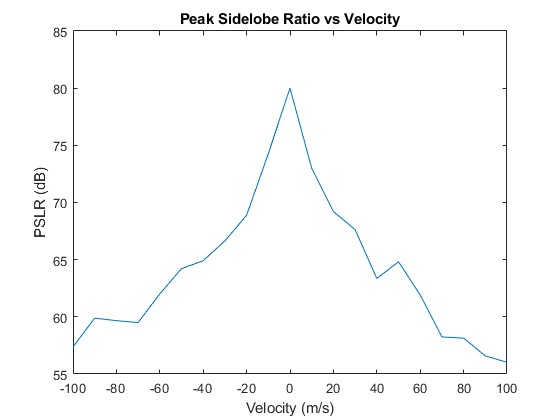
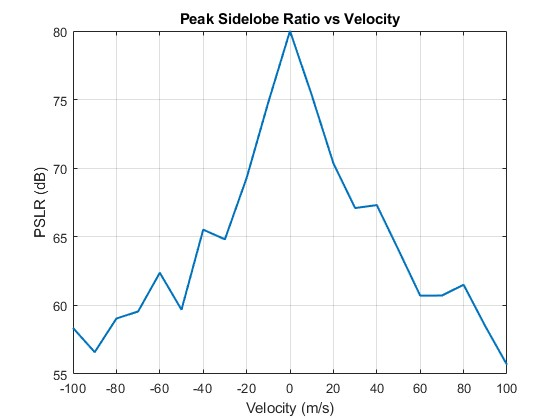
added 2 cite and plots line width

diff --git a/latex/project_report.tex b/latex/project_report.tex
@@ -370,7 +370,7 @@ In this section, we evaluate the performance of an FMCW radar written in MATLAB 
 	 	\begin{figure}[H]
 	    		\centering
 	    		\fbox{\includegraphics[width=0.9\linewidth]{OFDM Block diagram}}
-	    		\caption{OFDM block diagram}
+	    		\caption{OFDM block diagram.\cite {10.1007/978-981-16-2406-3_61}}
 	    		\label{fig::ofdm_block_diagram}
 		\end{figure}
 		
@@ -379,7 +379,7 @@ In this section, we evaluate the performance of an FMCW radar written in MATLAB 
 		\begin{figure}[H]
 	    		\centering
 	    		\fbox{\includegraphics[width=0.9\linewidth]{OFDM subcarriers}}
-	    		\caption{OFDM subcarriers}
+	    		\caption{OFDM subcarriers. \cite {inproceedings}}
 	    		\label{fig::ofdm_subcarriers}
 		\end{figure}
 		
@@ -786,7 +786,7 @@ The RDM results for the given parameters, shown in the graph below, demonstrate 
 \caption{OFDM/Radar RDM Plot}
 \end{figure} 
 
-The parameters for the optimized OFDM yield distinct power spectral density and BER vs. SNR results. As anticipated, the total power density decreases by 20 dB, a direct consequence of the increased number of data carriers, which has been multiplied by a factor of 16 compared to OFDM stand-alone.
+The parameters for the optimized OFDM yield distinct power spectral density and BER vs. SNR results. As anticipated, the total power density decreases by 20 dB, a direct consequence of the increased number of data carriers, which has been multiplied by a factor of 16 compared to OFDM stand-alone. The measured average signal power for both optimized OFDM/Radar and OFDM stand-alone are in the same range (-13 dB).
 
 \begin{figure}[H]
 \centering
@@ -794,7 +794,7 @@ The parameters for the optimized OFDM yield distinct power spectral density and 
 \caption{OFDM/Radar Power Spectral Density}
 \end{figure} 
 
-The final parameter compared for optimized OFDM signal integrity against stand-alone OFDM is the BER vs. SNR. The plot below shows that the BER results align with the expected values and are within the same range as those of stand-alone OFDM.
+The final parameter compared for optimized OFDM signal integrity against stand-alone OFDM is the BER vs. SNR. The plot below shows that the BER results align with the expected values and are within the same range as those of OFDM  stand-alone.
 
 \begin{figure}[H]
 \centering

diff --git a/code/runOfdmRadar.m b/code/runOfdmRadar.m
@@ -30,14 +30,17 @@ end
 
 figure(1)
 clf;
-plot(targetVelocity, PSLR_dB);
+plot(targetVelocity, PSLR_dB, LineWidth=1.5);
 
 
  % Label Plot
             title('Peak Sidelobe Ratio vs Velocity')
             %legend('Signal Power', 'Average Power');
-            xlabel('Velocity (m/s)')
-            ylabel('PSLR (dB)')
+            xlabel('Velocity (m/s)');
+            ylabel('PSLR (dB)');
+             grid on;
+            linewidth(1.5);
+
 %% OFDM Radar PSLR Measurement
 f = 5.9e9;
 c = physconst('lightspeed');
@@ -63,13 +66,14 @@ end
 
 figure(1)
 clf;
-plot(targetRange, PSLR_dB);
+plot(targetRange, PSLR_dB, LineWidth=1.5);
 
  % Label Plot
             title('Peak Sidelobe Ratio vs Range')
             %legend('Signal Power', 'Average Power');
-            xlabel('Range (m)')
-            ylabel('PSLR (dB)')
+            xlabel('Range (m)');
+            ylabel('PSLR (dB)');
+            grid on;
 %% OFDM Radar (Target at Large Range);
 radar = ofdmRadar(...
     'nDataCarriers', 49,...
